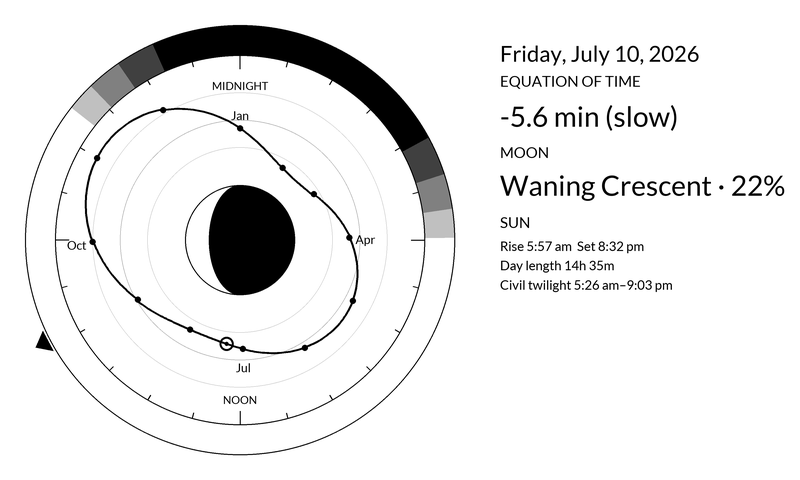
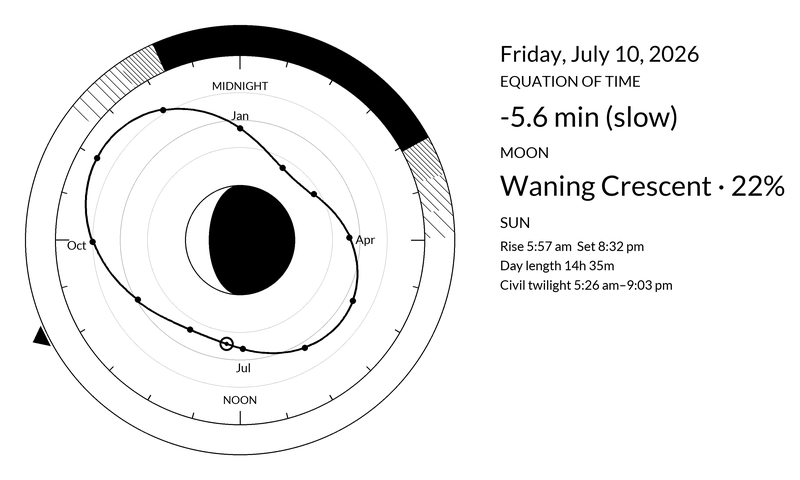
Replace flat-gray twilight bands with hatch patterns
Simulated TRMNL's two plausible image-processing paths locally
(Floyd-Steinberg dither vs. naive threshold). Flat gray fills survived
dithering but collapsed to solid black/white under simple thresholding,
silently erasing the twilight structure. Diagonal hatch patterns at three
densities are pure black/white already, so both paths render them
identically -- same fix already implicitly relied on for the moon
crescent, applied here explicitly.

Changed region(s): [[0.5, 0.2812, 0.5938, 0.5], [0.0938, 0.0938, 0.2188, 0.2812], [0.0312, 0.6875, 0.0625, 0.75]]

diff --git a/render_dashboard.py b/render_dashboard.py
@@ -79,35 +79,59 @@ def polar_point(cx, cy, r, angle_deg):
     return (cx + r * math.cos(rad), cy + r * math.sin(rad))
 
 
-def draw_daylight_ring(draw: ImageDraw.ImageDraw, now_local: datetime, times: dict):
-    """24h clock-face ring, midnight at top, clockwise. Flat gray bands:
-    night=black, astronomical=64, nautical=128, civil=192, day=white.
+def hatch_wedge(img: Image.Image, bbox, a0, a1, spacing):
+    """Fill a pie-slice wedge (PIL angle convention, degrees) with a diagonal-line
+    hatch instead of a flat gray. Pure black/white lines survive both dithering
+    and naive thresholding identically -- a flat mid-gray fill does not (it can
+    collapse to solid black or vanish to white under a simple threshold).
+    """
+    size = img.size
+    mask = Image.new("L", size, 0)
+    ImageDraw.Draw(mask).pieslice(bbox, a0, a1, fill=255)
+
+    hatch = Image.new("L", size, WHITE)
+    hd = ImageDraw.Draw(hatch)
+    diag = int(math.hypot(*size))
+    for offset in range(0, 2 * diag, spacing):
+        hd.line([(offset - diag, 0), (offset, diag)], fill=BLACK, width=max(1, SS // 2))
+
+    img.paste(hatch, (0, 0), mask)
+
+
+def draw_daylight_ring(img: Image.Image, draw: ImageDraw.ImageDraw, now_local: datetime, times: dict):
+    """24h clock-face ring, midnight at top, clockwise. Night/day are flat
+    black/white; the three twilight stages are diagonal hatch patterns
+    (densest near night, sparsest near day) rather than flat grays.
     """
     day0 = now_local.replace(hour=0, minute=0, second=0, microsecond=0)
 
     def a(dt):
         return hour_angle_deg(dt)
 
+    # (start, end, fill) for solid bands, or (start, end, None, spacing) for hatch
     bands = [
-        (day0, times["dawn_astronomical"], BLACK),
-        (times["dawn_astronomical"], times["dawn_nautical"], 64),
-        (times["dawn_nautical"], times["dawn_civil"], 128),
-        (times["dawn_civil"], times["sunrise"], 192),
-        (times["sunrise"], times["sunset"], WHITE),
-        (times["sunset"], times["dusk_civil"], 192),
-        (times["dusk_civil"], times["dusk_nautical"], 128),
-        (times["dusk_nautical"], times["dusk_astronomical"], 64),
-        (times["dusk_astronomical"], day0 + timedelta(days=1), BLACK),
+        (day0, times["dawn_astronomical"], BLACK, None),
+        (times["dawn_astronomical"], times["dawn_nautical"], None, 5 * SS),
+        (times["dawn_nautical"], times["dawn_civil"], None, 9 * SS),
+        (times["dawn_civil"], times["sunrise"], None, 15 * SS),
+        (times["sunrise"], times["sunset"], WHITE, None),
+        (times["sunset"], times["dusk_civil"], None, 15 * SS),
+        (times["dusk_civil"], times["dusk_nautical"], None, 9 * SS),
+        (times["dusk_nautical"], times["dusk_astronomical"], None, 5 * SS),
+        (times["dusk_astronomical"], day0 + timedelta(days=1), BLACK, None),
     ]
 
     bbox = (CX - R_RING_OUT, CY - R_RING_OUT, CX + R_RING_OUT, CY + R_RING_OUT)
-    for start, end, fill in bands:
+    for start, end, fill, spacing in bands:
         a0, a1 = a(start), a(end)
         if a1 <= a0:
             a1 += 360
         # pieslice angles: 0deg = 3 o'clock in PIL convention, clockwise positive;
         # our a() is clockwise-from-top, so shift by -90.
-        draw.pieslice(bbox, a0 - 90, a1 - 90, fill=fill)
+        if fill is not None:
+            draw.pieslice(bbox, a0 - 90, a1 - 90, fill=fill)
+        else:
+            hatch_wedge(img, bbox, a0 - 90, a1 - 90, spacing)
 
     # punch the inner hole so only the annulus remains
     inner_bbox = (CX - R_RING_IN, CY - R_RING_IN, CX + R_RING_IN, CY + R_RING_IN)
@@ -251,7 +275,7 @@ def render(lat, lon, tzname, out_path, when=None):
     draw = ImageDraw.Draw(img)
 
     times = sun_times(today, lat, lon, tzname)
-    draw_daylight_ring(draw, now_local, times)
+    draw_daylight_ring(img, draw, now_local, times)
 
     year_points = eot_calendar_year(today.year)
     draw_eot_loop(draw, today, year_points)

diff --git a/README.md b/README.md
@@ -85,8 +85,18 @@ year, which reads as noise rather than a fixed reference frame.
 29.53-day synodic month — fine for a decorative illumination-fraction
 render, not for precision timekeeping.
 
-**Twilight bands are flat gray steps, not hatch patterns.** A hatch-pattern
-treatment (matching the engraved-dial aesthetic this project started from)
-was considered but dropped for time; flat grays dither cleanly and are
-easy to verify programmatically. Worth revisiting if the rendered device
-output looks muddy.
+**Twilight bands are diagonal hatch patterns, not flat grays.** An earlier
+version used flat gray fills (64/128/192) for astronomical/nautical/civil
+twilight. Simulating TRMNL's two plausible rendering paths locally —
+`Image.convert("1")` (Floyd-Steinberg dither) vs. a naive `> 127` threshold
+— showed the flat grays survived dithering but **collapsed to solid
+black/white and erased the twilight structure entirely under simple
+thresholding**. Since which path TRMNL's pipeline actually uses for an
+embedded `<img>` couldn't be confirmed without live device access, the
+bands were switched to diagonal hatching at three densities (already pure
+black/white, so both paths render them identically) — same fix that made
+the moon crescent robust, applied to the twilight ring. Known remaining
+limitation: each twilight stage is only ~8–10° of arc, so the three
+densities are hard to tell apart by eye at this ring size even though they
+survive processing correctly — an inherent tension between ring
+compactness and stage count, not a rendering bug.